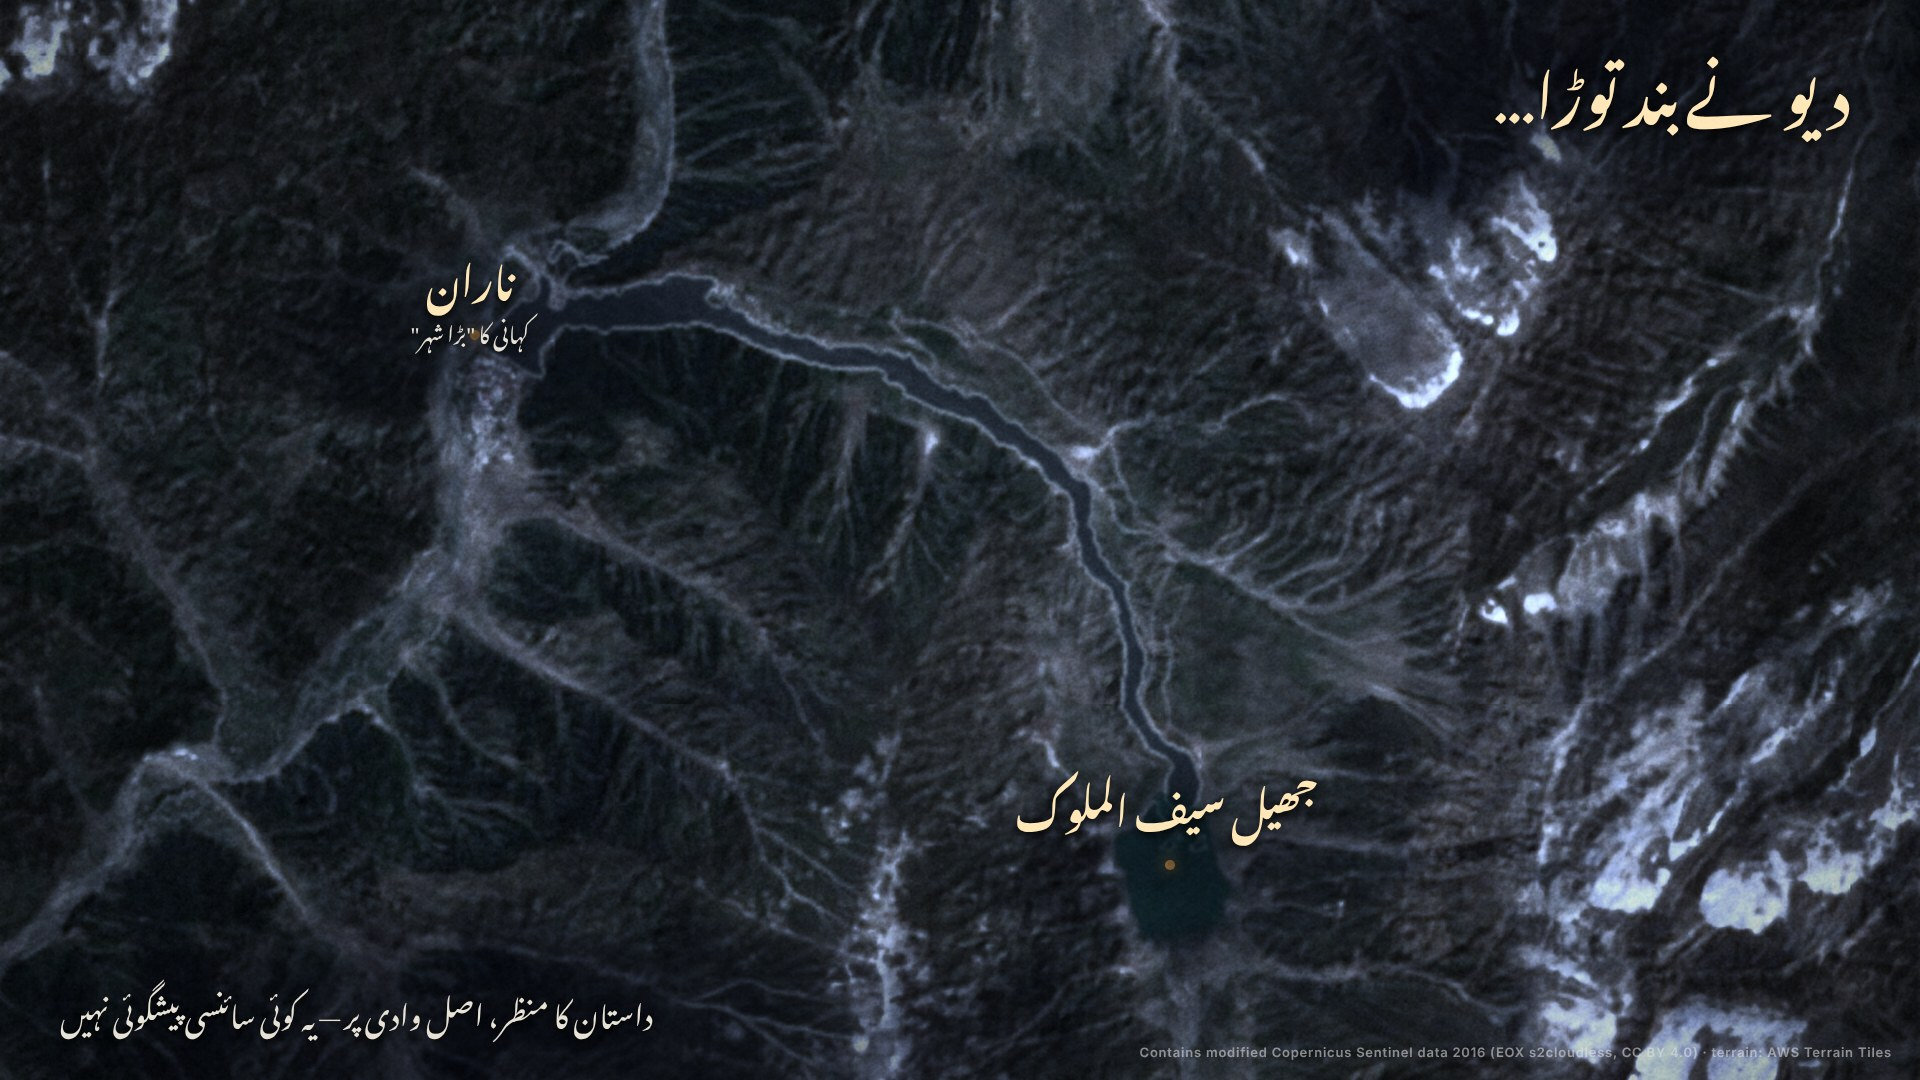
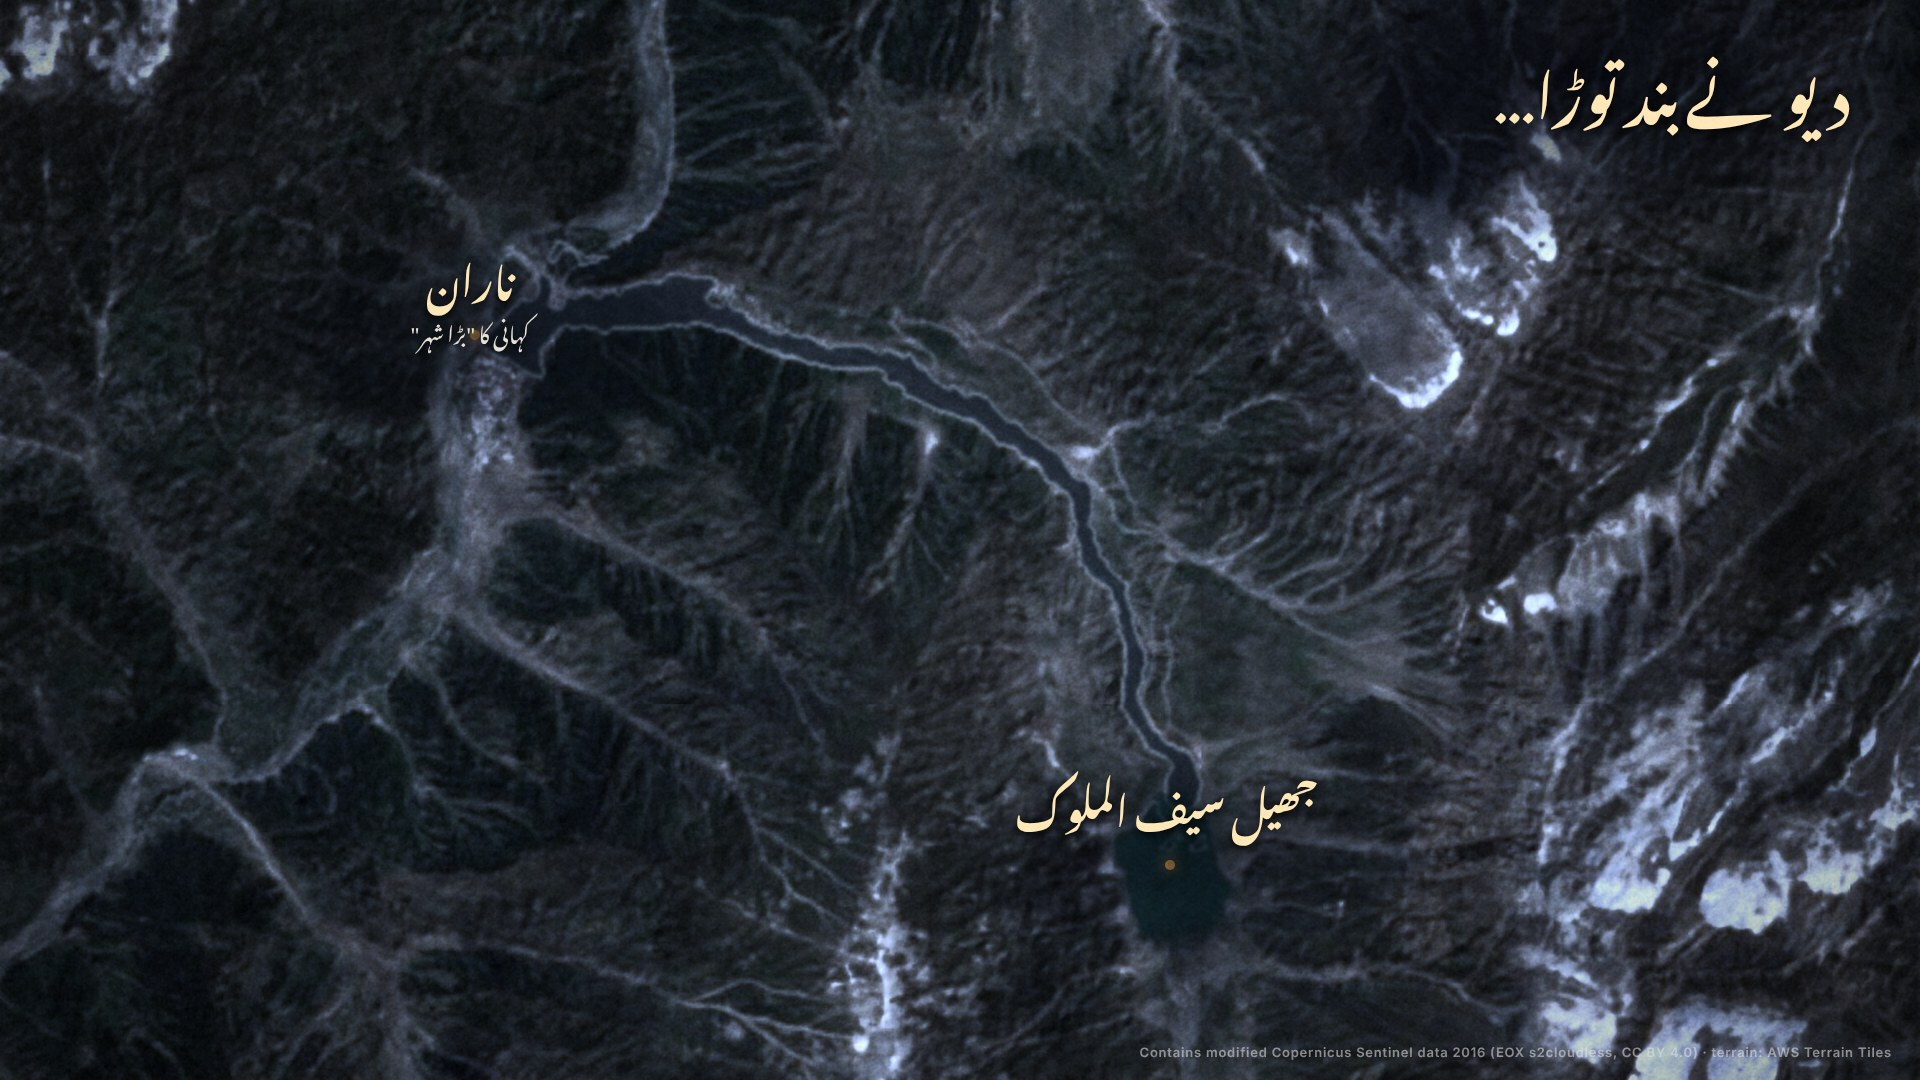
Ep 1: fantasy-on-real crafts (demon in storm, astrologer chart, 1908 map route), flood line removed
Claude-Session: https://claude.ai/code/session_013Fbj3VmkjJ1WUYBWRsxdKd

Changed region(s): [[0.0625, 0.8556, 0.5, 1.0], [0.0312, 0.9472, 0.0625, 0.9778]]

diff --git a/suraagh_nama/03_legends_lane/ep01_saiful_malook/graphics/real/real.html b/suraagh_nama/03_legends_lane/ep01_saiful_malook/graphics/real/real.html
@@ -27,8 +27,26 @@ R07_flood(){E('img','bg',null).src='out/bg_flood.png';
   const lab=(x,y,t,sub)=>{E('div','abs',`left:${x}px;top:${y}px;width:10px;height:10px;border-radius:50%;background:#F4B35E;box-shadow:0 0 14px #F4B35E`);scrim(x-260,y-110,560,230,.55);E('div','abs ur',`left:${x-240}px;top:${y-95}px;width:480px;text-align:center;font-size:40px;color:#FFE7B8;text-shadow:0 3px 10px #000`,t+(sub?`<div style="font-size:22px;font-weight:400;color:#E7E2D6;line-height:1.4">${sub}</div>`:''));};
   lab(1165,860,'جھیل سیف الملوک','');lab(470,330,'ناران','کہانی کا "بڑا شہر"');
   scrim(1150,-60,900,300,.6);E('div','abs ur',`right:70px;top:30px;font-size:58px;color:#FFE7B8;text-shadow:0 3px 12px #000`,'دیو نے بند توڑا…');
-  scrim(-100,900,1300,260,.7);E('div','abs ur',`left:60px;bottom:40px;font-size:30px;color:#E7E2D6;font-weight:400;text-shadow:0 2px 8px #000`,'داستان کا منظر، اصل وادی پر — یہ کوئی سائنسی پیشگوئی نہیں');
-  E('div','credit',null,'Contains modified Copernicus Sentinel data 2016 (EOX s2cloudless, CC BY 4.0) · terrain: AWS Terrain Tiles');grain();},
+    E('div','credit',null,'Contains modified Copernicus Sentinel data 2016 (EOX s2cloudless, CC BY 4.0) · terrain: AWS Terrain Tiles');grain();},
+R09_demon(){E('img','bg',null).src='out/bg_demon.png';
+  scrim(-120,-80,1100,330,.55);E('div','abs ur',`left:70px;top:30px;font-size:60px;color:#FFE7B8;text-shadow:0 3px 12px #000`,'"بدل جمال میری ہے!"');
+  E('div','credit',null,'Plate: Pixabay (u_hjie4wmvke) · storm sky: Pexels (Anton Kudryashov), Pixabay (Oimheidi) · composite ours');grain();},
+R03_astro(){S.style.background='#0b0705';
+  const pg=E('div','abs',`left:430px;top:60px;width:1250px;height:900px;transform:perspective(1600px) rotateX(32deg) rotateZ(4deg);transform-origin:50% 70%;box-shadow:-20px 40px 80px rgba(0,0,0,.85)`);
+  const pi=E('img','abs','left:0;top:0;width:1250px;height:900px;object-fit:cover;filter:contrast(1.05) brightness(.95)',null,pg);pi.src='out/paper.jpg';
+  E('div','abs','left:205px;top:30px;width:840px;height:840px',`<svg viewBox="0 0 1000 1000" width="840" height="840"><g filter="url(#rough)" stroke="#2a1608" stroke-width="7" fill="none" opacity=".88" stroke-linecap="round"><rect x="20" y="20" width="960" height="960"/><path d="M20 20 L980 980 M980 20 L20 980"/><path d="M500 20 L980 500 L500 980 L20 500 Z"/></g><g filter="url(#rough)"><text x="500" y="250" font-family="Nastaliq" font-size="54" text-anchor="middle" fill="#3a1f0c" opacity="0.95">حمل</text><text x="250" y="120" font-family="Nastaliq" font-size="40" text-anchor="middle" fill="#3a1f0c" opacity="0.8">ثور</text><text x="120" y="250" font-family="Nastaliq" font-size="40" text-anchor="middle" fill="#3a1f0c" opacity="0.8">جوزا</text><text x="250" y="500" font-family="Nastaliq" font-size="40" text-anchor="middle" fill="#3a1f0c" opacity="0.8">سرطان</text><text x="120" y="750" font-family="Nastaliq" font-size="40" text-anchor="middle" fill="#3a1f0c" opacity="0.8">اسد</text><text x="250" y="880" font-family="Nastaliq" font-size="40" text-anchor="middle" fill="#3a1f0c" opacity="0.8">سنبلہ</text><text x="500" y="750" font-family="Nastaliq" font-size="40" text-anchor="middle" fill="#3a1f0c" opacity="0.8">میزان</text><text x="750" y="880" font-family="Nastaliq" font-size="40" text-anchor="middle" fill="#3a1f0c" opacity="0.8">عقرب</text><text x="880" y="750" font-family="Nastaliq" font-size="40" text-anchor="middle" fill="#3a1f0c" opacity="0.8">قوس</text><text x="750" y="500" font-family="Nastaliq" font-size="40" text-anchor="middle" fill="#3a1f0c" opacity="0.8">جدی</text><text x="880" y="250" font-family="Nastaliq" font-size="40" text-anchor="middle" fill="#3a1f0c" opacity="0.8">دلو</text><text x="750" y="120" font-family="Nastaliq" font-size="40" text-anchor="middle" fill="#3a1f0c" opacity="0.8">حوت</text></g><g filter="url(#rough)" fill="#7a2418" opacity=".85"><circle cx="500" cy="330" r="10"/><circle cx="560" cy="310" r="7"/><text x="500" y="420" font-family="Nastaliq" font-size="34" text-anchor="middle" fill="#7a2418">کاغان</text></g></svg>`,pg);
+  E('div','abs',`inset:0;background:radial-gradient(ellipse at 10% 40%,rgba(255,170,80,.28),rgba(0,0,0,0) 45%),linear-gradient(90deg,rgba(0,0,0,0) 40%,rgba(0,0,0,.55) 100%);mix-blend-mode:multiply`,null,pg);
+  const c=E('img','abs','left:-420px;top:-40px;width:1300px;height:1160px;object-fit:cover;mix-blend-mode:screen;filter:blur(1px) contrast(2.2) brightness(.75);-webkit-mask-image:radial-gradient(ellipse 55% 60% at 45% 45%,#000 40%,transparent 100%)');c.src='out/candle.png';
+  E('div','abs',`inset:0;background:radial-gradient(circle at 300px 400px,rgba(255,170,90,.16),rgba(0,0,0,0) 40%,rgba(0,0,0,.6) 85%)`);
+  scrim(1100,700,900,420,.6);E('div','abs ur',`right:70px;bottom:50px;font-size:56px;color:#FFE7B8;text-shadow:0 3px 12px #000`,'نجومی بلائے گئے، زائچے کھینچے گئے…');
+  E('div','credit',null,'Candle: Pexels (Orsys) · paper: Pixabay (ChrisFiedler) · chart drawn by us');grain();},
+R06b_map(){S.style.background='#120c07';
+  const im=E('img','abs','left:0;top:36px;width:1920px;height:1008px;filter:contrast(1.02)');im.src='out/map1908.png';
+  E('div','abs','left:0;top:0;width:1920px;height:1080px',`<svg width="1920" height="1080"><g filter="url(#rough)" fill="none" stroke="#7a2418" stroke-width="5" stroke-linecap="round" stroke-dasharray="2 14" opacity=".95"><path d="M139 230 Q372 157 606 324"/> <path d="M606 324 Q968 489 1330 935"/> <path d="M1330 935 Q1545 796 1760 838"/> <path d="M1760 838 Q1463 359 1165 400"/> <path d="M1165 400 Q1172 324 1178 328"/></g><g filter="url(#rough)" fill="#7a2418"><circle cx="139" cy="230" r="9"/><circle cx="606" cy="324" r="9"/><circle cx="1330" cy="935" r="9"/><circle cx="1760" cy="838" r="9"/><circle cx="1165" cy="400" r="9"/><circle cx="1178" cy="328" r="9"/></g></svg>`);
+  E('div','abs',`left:129px;top:270px;white-space:nowrap;text-align:right;padding:4px 14px;background:radial-gradient(ellipse at 50% 50%,rgba(233,221,190,.85),rgba(233,221,190,0) 75%)`,`<div class="ur" style="font-size:34px;color:#3a1608;line-height:1.5">الف لیلہ</div><div class="ur" style="font-size:24px;color:#7a2418;font-weight:400;line-height:1.5">عربی</div>`);E('div','abs',`left:546px;top:204px;white-space:nowrap;text-align:right;padding:4px 14px;background:radial-gradient(ellipse at 50% 50%,rgba(233,221,190,.85),rgba(233,221,190,0) 75%)`,`<div class="ur" style="font-size:34px;color:#3a1608;line-height:1.5">فارسی داستان</div><div class="ur" style="font-size:24px;color:#7a2418;font-weight:400;line-height:1.5">نسخہ 1625</div>`);E('div','abs',`left:810px;top:915px;white-space:nowrap;text-align:right;padding:4px 14px;background:radial-gradient(ellipse at 50% 50%,rgba(233,221,190,.85),rgba(233,221,190,0) 75%)`,`<div class="ur" style="font-size:34px;color:#3a1608;line-height:1.5">ملا غواصی · گولکنڈہ</div><div class="ur" style="font-size:24px;color:#7a2418;font-weight:400;line-height:1.5">دکنی اُردو · 1035ھ</div>`);E('div','abs',`left:1460px;top:688px;white-space:nowrap;text-align:right;padding:4px 14px;background:radial-gradient(ellipse at 50% 50%,rgba(233,221,190,.85),rgba(233,221,190,0) 75%)`,`<div class="ur" style="font-size:34px;color:#3a1608;line-height:1.5">سید علاؤل · آراکان</div><div class="ur" style="font-size:24px;color:#7a2418;font-weight:400;line-height:1.5">بنگالی · 1669</div>`);E('div','abs',`left:665px;top:410px;white-space:nowrap;text-align:right;padding:4px 14px;background:radial-gradient(ellipse at 50% 50%,rgba(233,221,190,.85),rgba(233,221,190,0) 75%)`,`<div class="ur" style="font-size:34px;color:#3a1608;line-height:1.5">میاں محمد بخش · کھڑی شریف</div><div class="ur" style="font-size:24px;color:#7a2418;font-weight:400;line-height:1.5">پنجابی · 1863</div>`);E('div','abs',`left:798px;top:188px;white-space:nowrap;text-align:right;padding:4px 14px;background:radial-gradient(ellipse at 50% 50%,rgba(233,221,190,.85),rgba(233,221,190,0) 75%)`,`<div class="ur" style="font-size:34px;color:#3a1608;line-height:1.5">کاغان · جھیل سیف الملوک</div><div class="ur" style="font-size:24px;color:#7a2418;font-weight:400;line-height:1.5">مقامی داستان · 1907</div>`);
+  E('div','abs',`inset:0;background:radial-gradient(ellipse at 55% 45%,rgba(255,200,130,.10),rgba(0,0,0,0) 45%,rgba(20,10,0,.55) 100%);pointer-events:none`);
+  scrim(1250,-60,800,260,.55);E('div','abs ur',`right:60px;top:40px;font-size:58px;color:#FFE7B8;text-shadow:0 3px 12px #000`,'ایک داستان کا سفر');
+  E('div','credit',null,'Map: Imperial Gazetteer Atlas of India, 1908, Plate 2 (public domain; scan restored) · route drawn by us');grain();},
 R04_fairies(){E('img','bg',null).src='out/R04_fairies_real.png';E('div','credit',null,'Plate: Pixabay (u_hjie4wmvke) · graded day-for-night');},
 R02_title(){E('img','bg','filter:brightness(1.05)').src='out/bg_wide_night.png';E('div','abs','inset:0;background:linear-gradient(180deg,rgba(0,0,0,.45),rgba(0,0,0,0) 45%,rgba(0,0,0,.35))');scrim(260,0,1400,620,.7);
   E('div','abs ur',`left:0;right:0;top:60px;text-align:center;font-size:44px;color:rgba(236,226,200,.85);font-weight:400;text-shadow:0 2px 12px #000`,'سراغ نامہ کی داستان');

diff --git a/suraagh_nama/03_legends_lane/ep01_saiful_malook/graphics/real/f_demon.py b/suraagh_nama/03_legends_lane/ep01_saiful_malook/graphics/real/f_demon.py
@@ -1,0 +1,53 @@
+from craft import *
+from PIL import ImageDraw
+img=load('plate_moraine.png')
+RIDGE=[(0,30),(100,60),(160,92),(240,144),(320,185),(400,223),(480,244),(560,279),(640,320),(680,330),(720,325),(800,318),(880,322),(960,345),(1000,350),(1040,352),(1100,365),(1160,385),(1240,415),(1300,440),(1360,465),(1440,465),(1600,460),(1760,480),(1920,494)]
+ground,sky=day_for_night(img,ridge=RIDGE,expo=.24)
+# storm sky (real photo), mapped behind the ridge
+st=Image.open('../storm/pex12372779.jpg').convert('RGB')
+st=st.crop((0,0,st.width,int(st.height*.80))).resize((W,620),Image.LANCZOS)
+S=np.zeros((H,W,3),np.float32);S[:620]=np.asarray(st).astype(np.float32)/255
+S[620:]=S[619:620]
+bo=Image.open('../storm/pxb1455285.jpg').convert('RGB');bo=bo.crop((420,120,1280,720)).resize((1100,770),Image.LANCZOS)
+B=np.zeros((H,W,3),np.float32);B[0:770,820:1920]=np.asarray(bo).astype(np.float32)/255
+bl=np.clip((B.mean(2,keepdims=True)-.45)*2.2,0,1)
+ramp=np.clip((np.arange(W)-820)/260,0,1)[None,:,None]*np.clip((770-np.arange(H))/200,0,1)[:,None,None]
+bl=bl*ramp
+S=1-(1-S)*(1-np.clip(B*bl*1.6,0,1))
+S=S*np.array([.85,.85,1.0])
+lum=S.mean(2)
+# ---- the demon: a vast shape inside the cloud, only readable where lightning lights the cloud from behind
+dm=Image.new('L',(W,H),0);d=ImageDraw.Draw(dm)
+cx,cy=1420,250
+d.ellipse((cx-110,cy-140,cx+110,cy+80),fill=255)                      # head
+d.polygon([(cx-95,cy-110),(cx-175,cy-290),(cx-60,cy-140)],fill=255)    # left horn
+d.polygon([(cx+95,cy-110),(cx+190,cy-280),(cx+60,cy-140)],fill=255)    # right horn
+d.polygon([(cx-520,cy+330),(cx-260,cy+80),(cx,cy+60),(cx+260,cy+80),(cx+560,cy+340)],fill=255)  # shoulders
+dm=np.asarray(dm).astype(np.float32)/255
+rr=np.random.default_rng(11)
+N=sum(gaussian_filter(rr.random((H,W)).astype(np.float32),sg)*w for sg,w in ((40,1.0),(14,.6),(5,.35)))
+N=(N-N.mean())/N.std()
+soft=gaussian_filter(dm,22)
+dm2=smooth(soft+N*.16,.38,.62)                     # cloud-broken silhouette
+dmask=gaussian_filter(dm2,6)
+rim=np.clip(gaussian_filter(dm2,4)-gaussian_filter(dm2,16),0,1)
+ctex=np.clip(gaussian_filter(lum,2)/(lum.max()+1e-6),0,1)
+light=gaussian_filter(np.clip(lum-.42,0,1),25)*3
+S=S*(1-.6*dmask[...,None])
+S+=(rim*np.clip(light*1.6+.08,0,1)*(.5+ctex))[...,None]*np.array([.62,.58,.85])*.9
+# eyes: two faint embers deep in the cloud
+yy,xx=np.mgrid[0:H,0:W]
+for ex in (cx-48,cx+48):
+    e=np.exp(-(((xx-ex)/9)**2+((yy-(cy-10))/5)**2))
+    S+=e[...,None]*np.array([1.0,.35,.12])*.5
+    S+=gaussian_filter(e,14)[...,None]*np.array([1.0,.3,.1])*2.5
+out=ground*(1-sky[...,None])+S*sky[...,None]
+# lightning flash lights the land a little (cool, from above)
+flash=.35*gaussian_filter(np.clip(lum-.4,0,1),60)[...,None]
+out+= (img.mean(2,keepdims=True)*.5)*np.clip(flash*4,0,.5)*np.array([.6,.6,.85])*(1-sky[...,None])
+# lake catches the storm: faint purple sheen on water
+r,g,b=img[...,0],img[...,1],img[...,2]
+water=gaussian_filter((smooth(g-r,.06,.22)*smooth(b-r,.06,.22)*(yy>500)).astype(np.float32),2)
+out+=water[...,None]*np.array([.07,.05,.11])
+out=film(out,grain=.04,halation=.4,vign=.6)
+to_img(out).save('out/bg_demon.png');print('ok')

diff --git a/suraagh_nama/03_legends_lane/ep01_saiful_malook/graphics/GRAPHICS_PLAN.md b/suraagh_nama/03_legends_lane/ep01_saiful_malook/graphics/GRAPHICS_PLAN.md
@@ -87,3 +87,17 @@ Ahmad's feedback: the drawn frames looked machine-made. **Every frame now starts
 - **Moraine label:** confirm on satellite imagery and the terrain model which ridge is the damming moraine before the label says "it holds the lake". It currently says only "گلیشیئر کا لایا ہوا پتھر اور مٹی".
 
 **Code:** `real/craft.py` (grading and light compositing), `real/f_fairies.py`, `real/real.html` (layouts). **Frames:** `style_frames_real/`.
+
+## v2 crafts finished (stills; animation comes later, all in one pass)
+| Frame | Real base | Fantasy element |
+|---|---|---|
+| R02 title | Night-graded lake footage | — |
+| R03 astrologer | Real candle footage (Pexels) and an aged-paper photo (Pixabay) | A horoscope chart in ink, with Urdu zodiac names; red mark at "کاغان" |
+| R04 fairies | Night-graded lake footage | 360 lights reflected in the water |
+| R05 1907 page | Real scan, p. 205 | Pencil underline |
+| R06 1907 photo | Real 1907 plate | — |
+| R06b journey map | **Imperial Gazetteer Atlas 1908, Plate 2** (public domain; binding-fold artefact cleaned) | Ink route Egypt → Persia → Golconda → Arakan → Khari Sharif → Kaghan, with labels |
+| R07 flood | Sentinel-2 satellite image and real terrain | Flood along the real valley path to Naran |
+| R08 moraine | Real footage | Hand-drawn line |
+| R09 demon | Real lake footage, plus **real storm sky and lightning** (Pexels, Pixabay) | A demon shape **inside the storm cloud**, with an edge lit only by the lightning, and ember eyes |
+| R10 thumbnail | Night lake | A torn strip of the real 1907 page |
